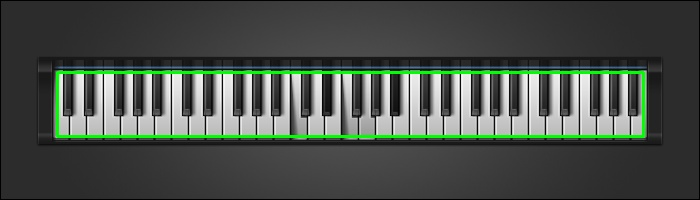
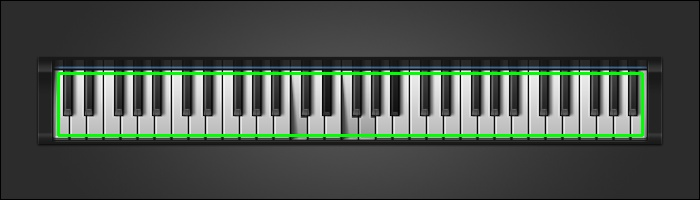
thresholding the keyborad

Changed region(s): [[0.06, 0.33, 0.93, 0.69]]

diff --git a/src/img_proc.py b/src/img_proc.py
@@ -8,13 +8,15 @@ class ImgProc:
         img = cv2.imread(src_img_path)
         # Convert it to greyscale
         grey = cv2.cvtColor(img, cv2.COLOR_BGR2GRAY)
-        blur = cv2.GaussianBlur(grey,(5,5),sigmaX=500,sigmaY=500)
+        blur = cv2.GaussianBlur(grey,(7,7),sigmaX=500,sigmaY=500)
         # Threshold the image
         ret, thresh = cv2.threshold(blur,190,255,cv2.THRESH_BINARY)
+        cv2.imwrite('img/thresh.jpg',thresh)
         # Find the contours
         contours, hierarchy = cv2.findContours(thresh, cv2.RETR_TREE, cv2.CHAIN_APPROX_SIMPLE)
         # For each contour, find the convex hull and draw it
         # on the original image.
+
         hull = []
         for i in range(len(contours)):
             for j in range(len(contours[i])):
@@ -38,7 +40,6 @@ class ImgProc:
     def img_thresh(src_img_path,threshold = 127, dest_img_path = 'img/img_thresh.jpg'):
         img = cv2.imread(src_img_path)
         ret, thresh = cv2.threshold(img,threshold,255,cv2.THRESH_BINARY)
-        print(np.max(thresh),np.min(thresh))
         thresh[np.all(thresh == (255,255,255),axis=-1)] = (255,0,0)
         thresh[np.all(thresh == (0,0,0),axis=-1)] = (0,255,0)
         cv2.imwrite(dest_img_path,thresh)
